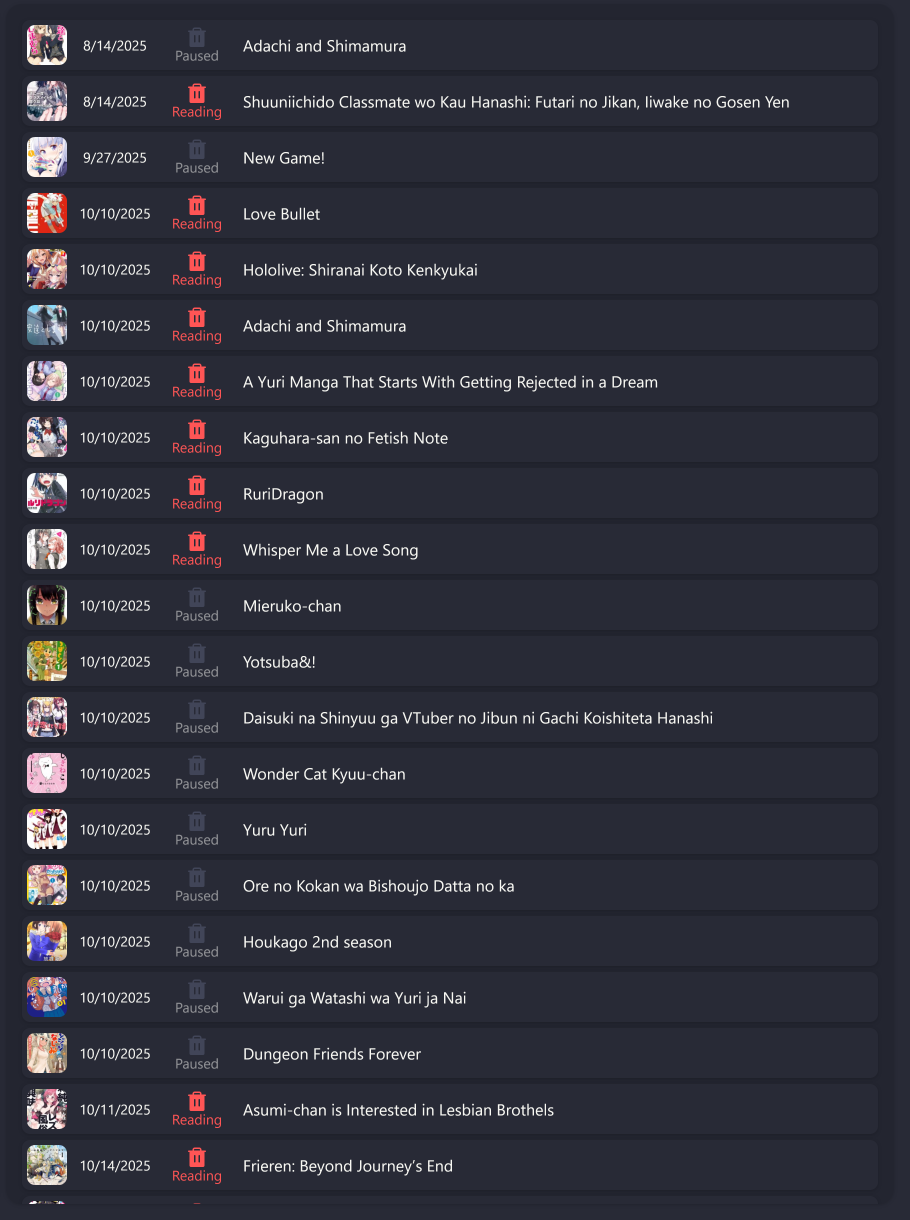
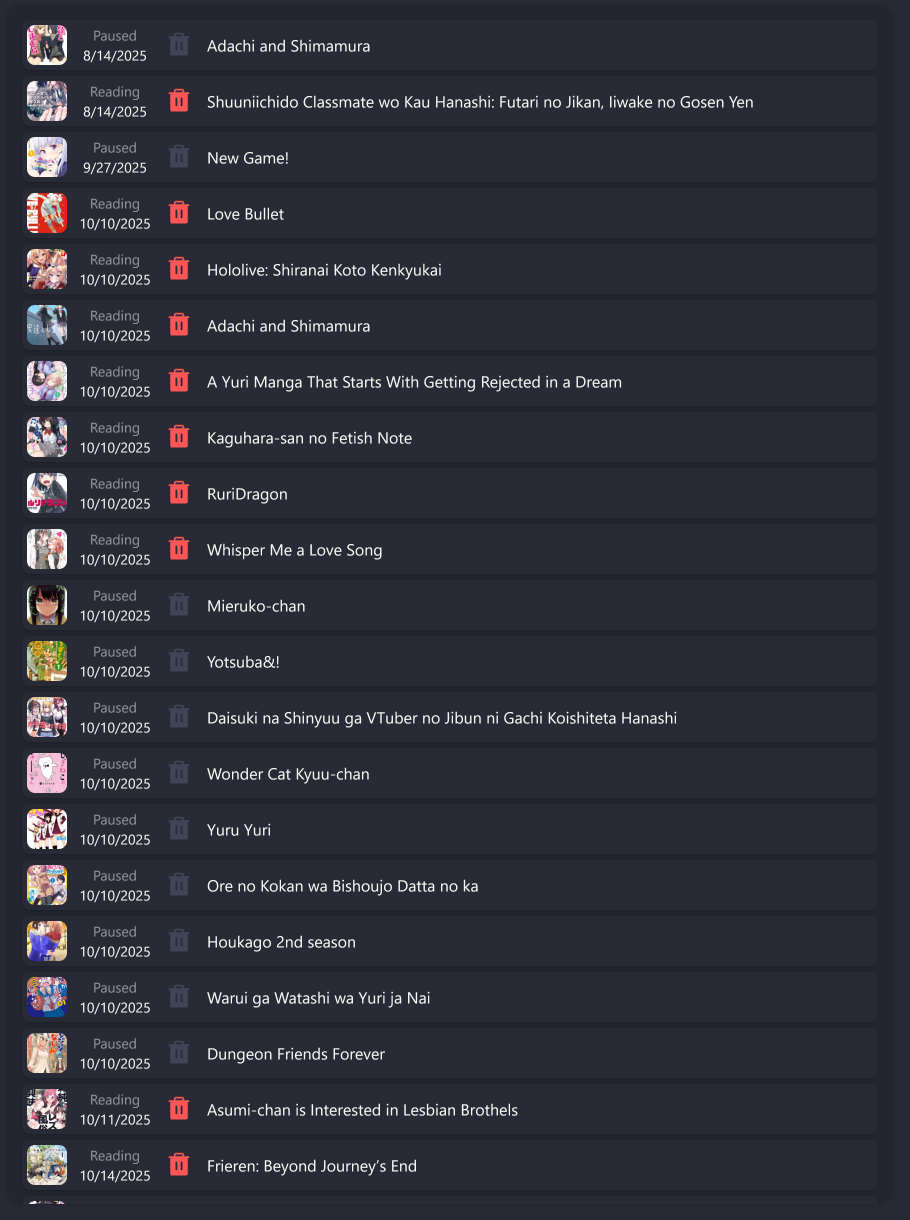
Rework the drop list entry

Changed region(s): [[0.0923, 0.0311, 0.8615, 0.9656]]

diff --git a/src/routes/-dropper/DropperListEntry.tsx b/src/routes/-dropper/DropperListEntry.tsx
@@ -26,14 +26,15 @@ export default function DropperListEntry({
 }) {
   const oldStatus = entry.status;
   const newStatus = draft.get(entry.id)?.status ?? entry.status;
+
   const reduceMotion = useMediaQuery("(prefers-reduced-motion: reduce)");
 
   return (
     <div
       className={clsx(
         "bg-base-100 rounded-field min-h-10 w-full p-1.25 shadow-md dark:shadow",
-        "grid grid-cols-[2.5rem_4rem_3.75rem_1fr] grid-rows-1 gap-1 [grid-template-areas:'img_date_status_text']",
-        "lg:grid-cols-[2.5rem_5rem_4.25rem_1fr] lg:gap-2",
+        "grid grid-cols-[2.5rem_4.25rem_1.75rem_1fr] grid-rows-1 gap-1 [grid-template-areas:'img_status_drop_text']",
+        "lg:grid-cols-[2.5rem_5rem_2rem_1fr] lg:gap-2",
         "focus:outline-primary focus:outline-2",
       )}
       tabIndex={0}
@@ -99,14 +100,19 @@ export default function DropperListEntry({
           ></div>
         </a>
       </div>
-      <div className="flex-center text-xs [grid-area:date] lg:text-sm">
-        {DateTime.fromSeconds(entry.updatedAt).toLocaleString(
-          DateTime.DATE_SHORT,
-        )}
+      <div className="flex-center text-xs [grid-area:status] lg:text-sm">
+        <div className="opacity-50">
+          {nameOfStatus(settings.listType.value, oldStatus)}
+        </div>
+        <div>
+          {DateTime.fromSeconds(entry.updatedAt).toLocaleString(
+            DateTime.DATE_SHORT,
+          )}
+        </div>
       </div>
       <div
         className={clsx(
-          "flex-center [grid-area:status]",
+          "flex-center [grid-area:drop]",
           newStatus === "DROPPED" && "text-error",
         )}
       >
@@ -126,16 +132,8 @@ export default function DropperListEntry({
           }}
           className="btn btn-ghost text-neutral data-checked:text-error size-fit p-0"
         >
-          <PiTrashFill className="size-4.5 lg:size-6" />
+          <PiTrashFill className="size-6 lg:size-7" />
         </Switch>
-        <div
-          className={clsx(
-            "-mt-1.5 text-xs lg:text-sm",
-            newStatus !== "DROPPED" && "opacity-50",
-          )}
-        >
-          {nameOfStatus(settings.listType.value, oldStatus)}
-        </div>
       </div>
       <div className="flex min-w-0 flex-col justify-center self-center justify-self-start p-1 [grid-area:text]">
         <p className="wrap-anywhere">

diff --git a/src/routes/-dropper/DropperSettingsItems.tsx b/src/routes/-dropper/DropperSettingsItems.tsx
@@ -32,6 +32,13 @@ export type DropperSettings = {
   titleLanguage: ReactState<TitleLanguage>;
 };
 
+type DroppableMediaListStatus = "CURRENT" | "PAUSED";
+
+const DROPPABLE_MEDIA_LIST_STATUS: DroppableMediaListStatus[] = [
+  "CURRENT",
+  "PAUSED",
+];
+
 export function useDropperSettings(): DropperSettings {
   return {
     listType: useStateW<MediaType>("ANIME"),
@@ -59,7 +66,7 @@ export default function DropperSettingsItems({
     DateTime.now().endOf("day"),
   );
 
-  const [dropStatuses, setDropStatuses] = useState<("CURRENT" | "PAUSED")[]>([
+  const [dropStatuses, setDropStatuses] = useState<DroppableMediaListStatus[]>([
     "CURRENT",
     "PAUSED",
   ]);
@@ -116,12 +123,12 @@ export default function DropperSettingsItems({
       </SettingsItem>
       <div className="divider mb-3"></div>
       <SettingsItem label="Drop Status Filter">
-        <CustomListbox<"CURRENT" | "PAUSED">
+        <CustomListbox<DroppableMediaListStatus>
           className="select w-full"
           disabled={viewer.data == null}
           multiple
           value={dropStatuses}
-          options={["CURRENT", "PAUSED"]}
+          options={DROPPABLE_MEDIA_LIST_STATUS}
           onChange={(v) => {
             if (v.length > 0) {
               setDropStatuses(v);
